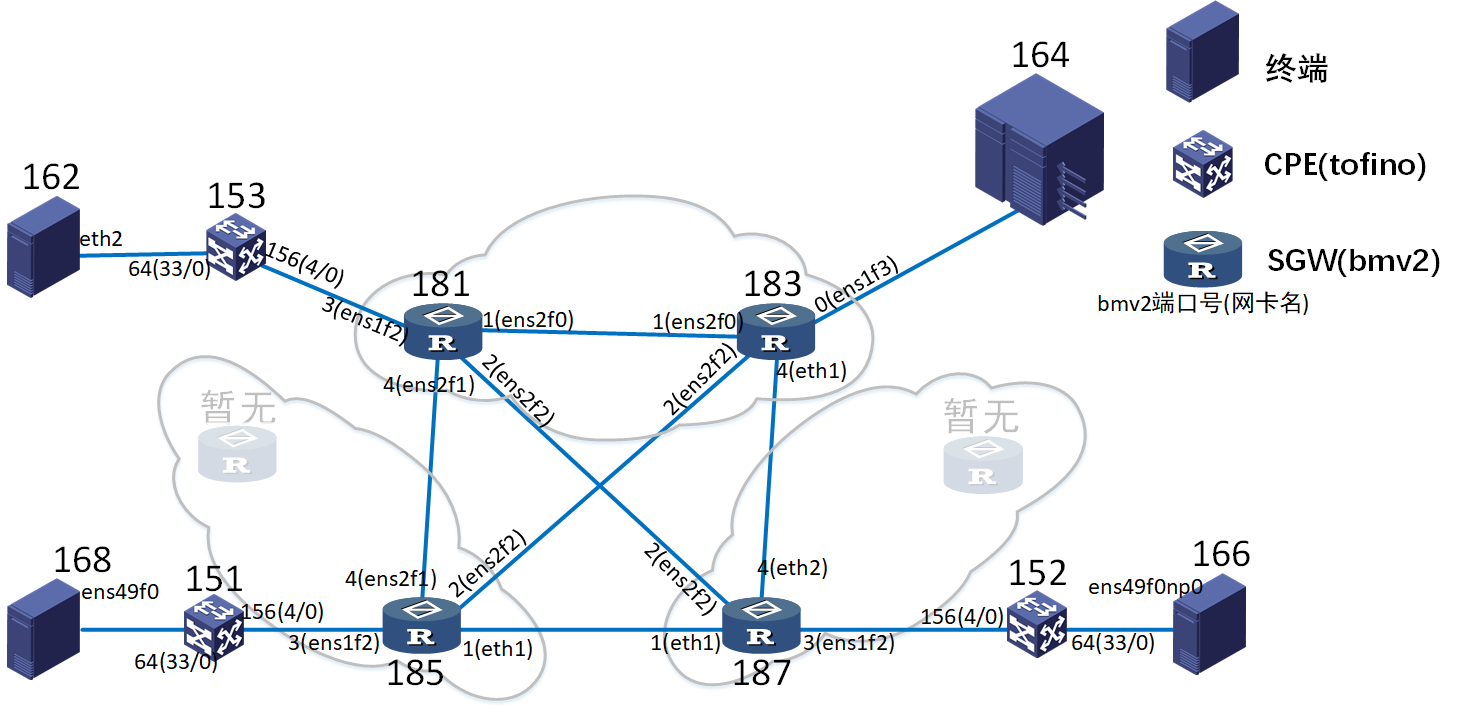
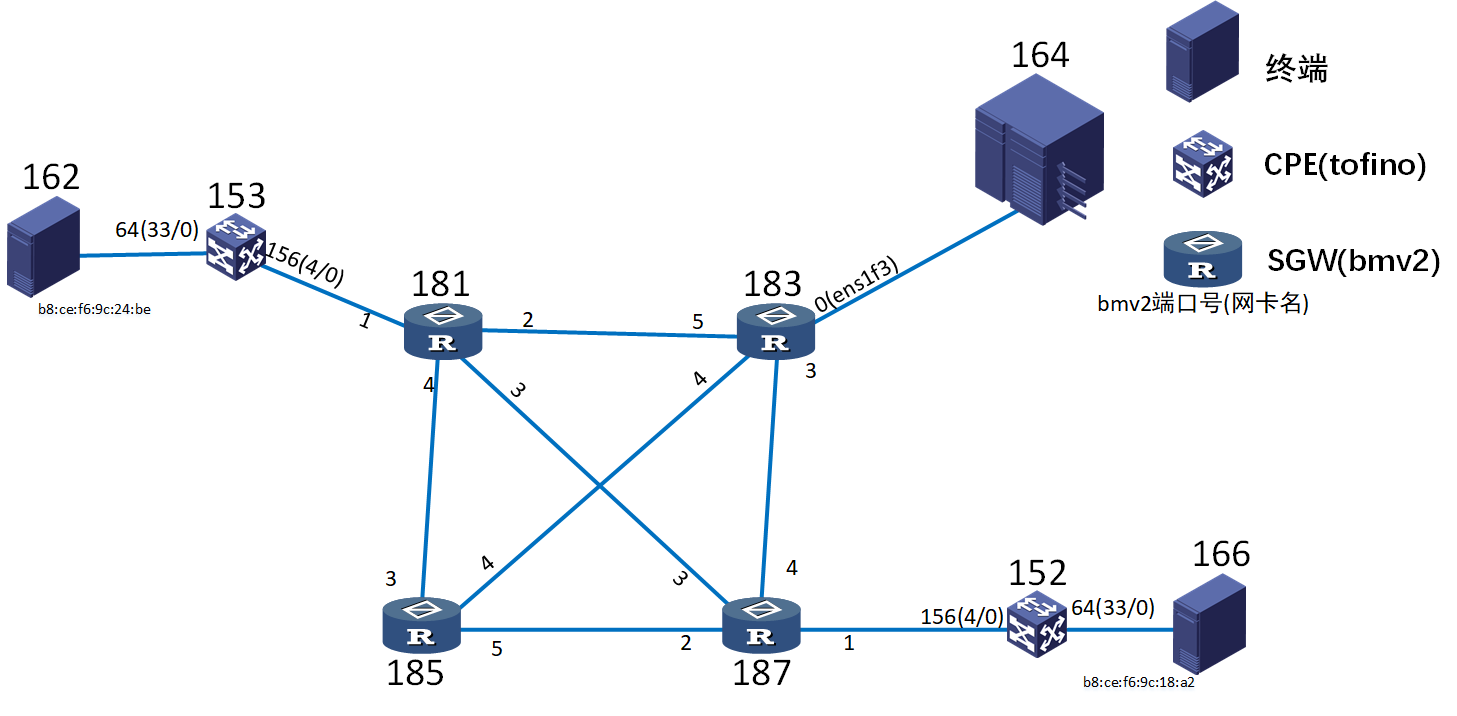
修改拓扑

diff --git a/controller/src/orm.py b/controller/src/orm.py
@@ -7,7 +7,7 @@ from sqlmodel import Field, SQLModel, create_engine, Relationship
 from pathlib import Path
 from datetime import datetime
 
-__all__=['Sgw','SgwInterface','SgwLink','SgwLinkState','Cpe','Host','Business','Route','get_engine']
+__all__=['Sgw','SgwLink','SgwLinkState','Cpe','Host','Business','Route','get_engine']
 
 class Sgw(SQLModel, table=True):
     """
@@ -20,16 +20,6 @@ class Sgw(SQLModel, table=True):
     srv6_locator:str = Field(description="半个ipv6地址（64bit），使用类似2001:0db8的格式")
 
     sgwlink:List['SgwLink'] = Relationship(back_populates='src_sgw',sa_relationship_kwargs=dict(foreign_keys="[SgwLink.src_sgw_id]"))
-
-class SgwInterface(SQLModel, table=True):
-    """
-    此表id被作为外键，不应该删除数据。
-    此表是手动根据网络配置填写的。
-    """
-    id: Optional[int] = Field(default=None, primary_key=True)
-    name:str
-    sgw_id:int = Field(foreign_key="sgw.id")
-    bmv2_port:Optional[int] = Field(default=None,description="交换机网卡对应的bmv2 port")
 
 class SgwLink(SQLModel, table=True):
     """
